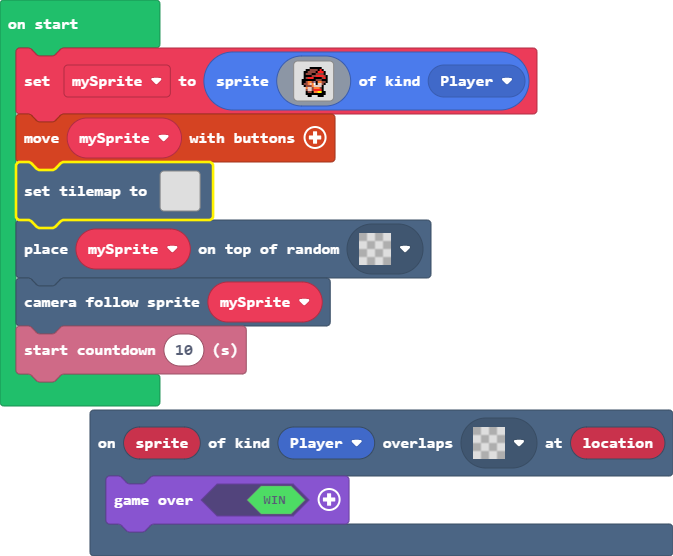
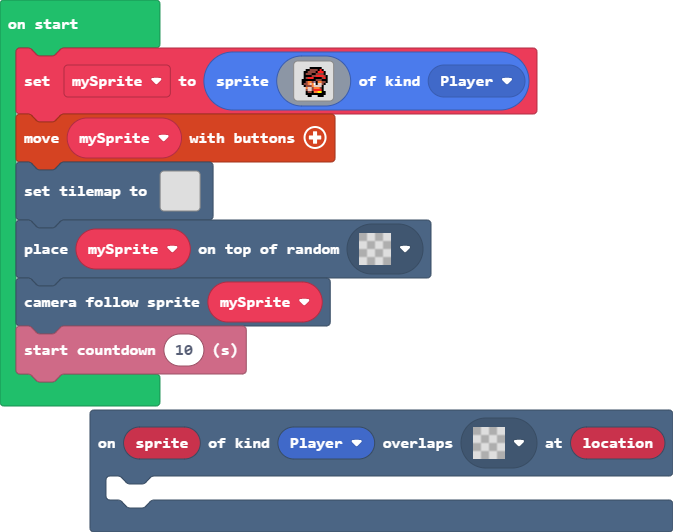
Update main.blocks, main.ts

Changed region(s): [[0.0, 0.0301, 1.0, 0.9624]]

diff --git a/main.ts b/main.ts
@@ -1,5 +1,5 @@
 scene.onOverlapTile(SpriteKind.Player, myTiles.transparency16, function (sprite, location) {
-    game.over(true)
+	
 })
 let mySprite = sprites.create(img`
     . . . . . . . . . . . . . . . . 
